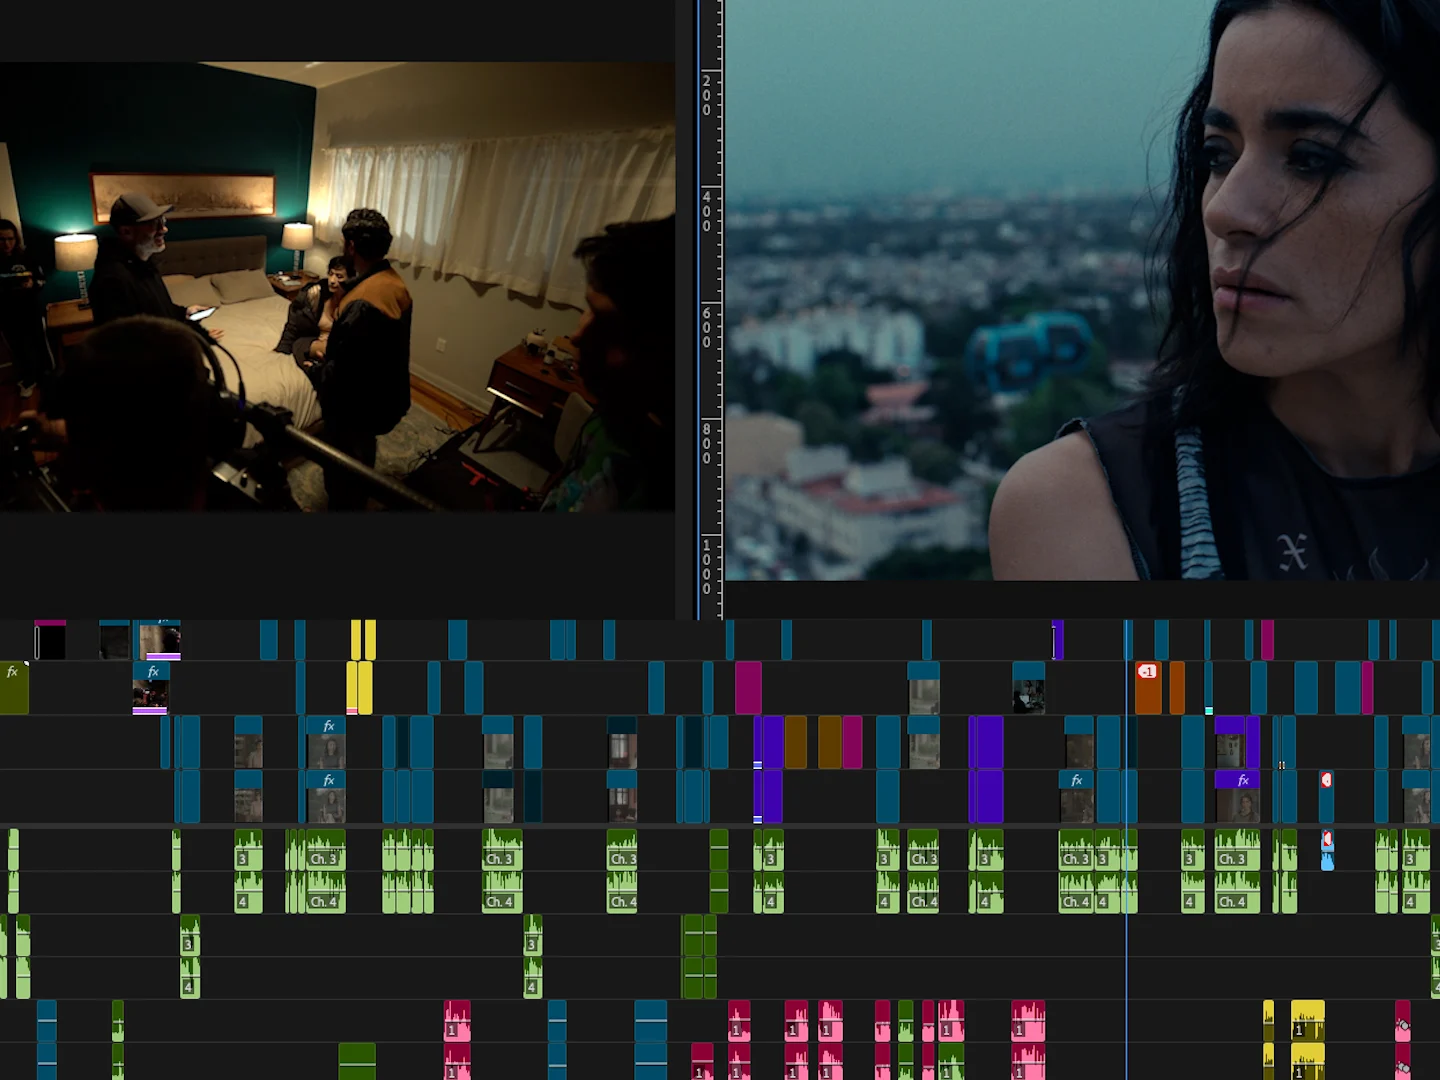
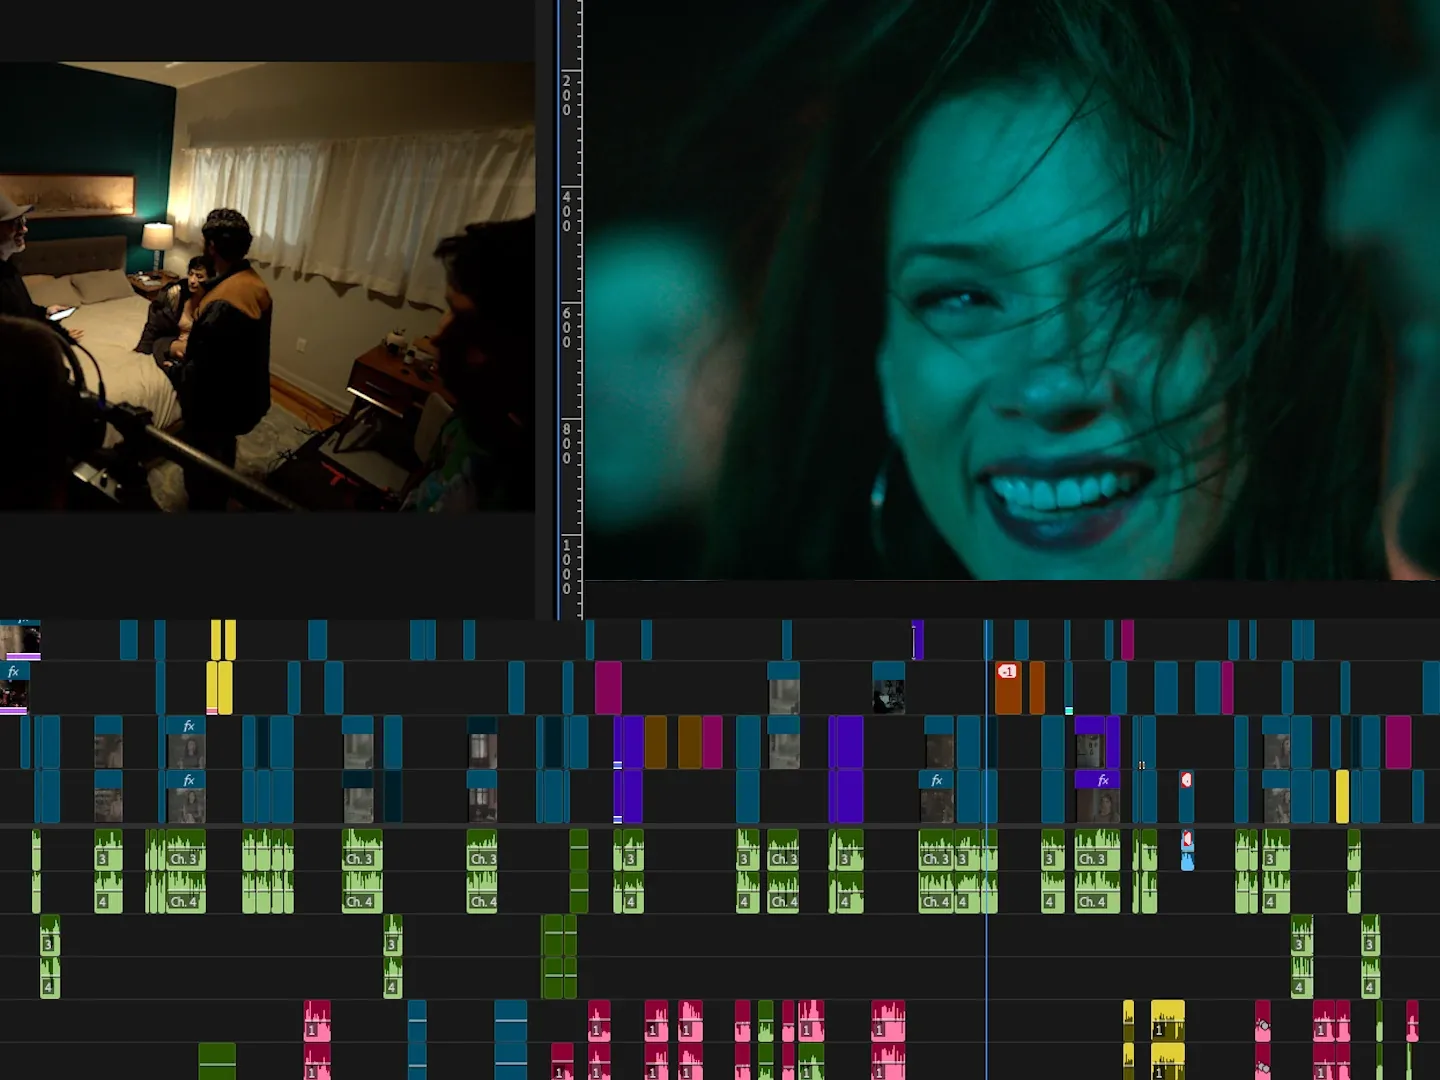
Post-Production image: smiling frame (re-applied); founder photo smaller

diff --git a/services.html b/services.html
@@ -25,7 +25,7 @@
   <meta property="og:image:alt" content="Coco Media logo">
   <meta name="twitter:card" content="summary_large_image">
   <meta name="theme-color" content="#000000">
-  <link rel="stylesheet" href="css/style.css?v=11111653">
+  <link rel="stylesheet" href="css/style.css?v=11121606">
   <script>document.documentElement.classList.add('js');</script>
 </head>
 <body>
@@ -82,7 +82,7 @@
         <article class="svc svc--pink">
           <!-- Oct 28: video removed per Sofi, still image only. Still swapped to the full-res timeline screenshot (Sofi). Oct 27: Mujeres Asesinas S4 BTS edit (from Mary Cruz). Still = resting state; the timeline sweep (5s, silent, B&W)
                fades in once when the row scrolls into view and again on hover. Skipped for reduced motion. -->
-          <figure class="svc-media"><img src="assets/about/svc-post-edit-1000.webp?v=1110" srcset="assets/about/svc-post-edit-1000.webp?v=1110 1000w, assets/about/svc-post-edit.webp?v=1110 1440w" sizes="(max-width: 860px) 100vw, 600px" width="1000" height="750" alt="An edit in progress: behind-the-scenes footage, the finished frame, and the multi-track timeline" loading="lazy"></figure>
+          <figure class="svc-media"><img src="assets/about/svc-post-edit-1000.webp?v=1112" srcset="assets/about/svc-post-edit-1000.webp?v=1112 1000w, assets/about/svc-post-edit.webp?v=1112 1440w" sizes="(max-width: 860px) 100vw, 600px" width="1000" height="750" alt="An edit in progress: behind-the-scenes footage, the finished frame, and the multi-track timeline" loading="lazy"></figure>
           <div class="svc-copy">
             <span class="ring-frame ring-frame--pink svc-icon"><img src="assets/icons/icon-video-editing-bold.png" alt=""></span>
             <h2>Post-Production</h2>
@@ -219,6 +219,6 @@
     </div>
   </footer>
 
-  <script src="js/main.js?v=11111653"></script>
+  <script src="js/main.js?v=11121606"></script>
 </body>
 </html>

diff --git a/es/servicios.html b/es/servicios.html
@@ -26,7 +26,7 @@
 <meta property="og:image:alt" content="Logo de Coco Media">
 <meta name="twitter:card" content="summary_large_image">
 <meta name="theme-color" content="#000000">
-<link rel="stylesheet" href="../css/style.css?v=11111653">
+<link rel="stylesheet" href="../css/style.css?v=11121606">
 <script>document.documentElement.classList.add('js');</script>
 </head>
 <body>
@@ -80,7 +80,7 @@
 <article class="svc svc--pink">
 <!-- Oct 28: video removed per Sofi, still image only. Still swapped to the full-res timeline screenshot (Sofi). Oct 27: Mujeres Asesinas S4 BTS edit (from Mary Cruz). Still = resting state; the timeline sweep (5s, silent, B&W)
                fades in once when the row scrolls into view and again on hover. Skipped for reduced motion. -->
-<figure class="svc-media"><img src="../assets/about/svc-post-edit-1000.webp?v=1110" srcset="../assets/about/svc-post-edit-1000.webp?v=1110 1000w, ../assets/about/svc-post-edit.webp?v=1110 1440w" sizes="(max-width: 860px) 100vw, 600px" width="1000" height="750" alt="Una edición en curso: material detrás de cámaras, el cuadro terminado y la línea de tiempo multipista" loading="lazy"></figure>
+<figure class="svc-media"><img src="../assets/about/svc-post-edit-1000.webp?v=1112" srcset="../assets/about/svc-post-edit-1000.webp?v=1112 1000w, ../assets/about/svc-post-edit.webp?v=1112 1440w" sizes="(max-width: 860px) 100vw, 600px" width="1000" height="750" alt="Una edición en curso: material detrás de cámaras, el cuadro terminado y la línea de tiempo multipista" loading="lazy"></figure>
 <div class="svc-copy">
 <span class="ring-frame ring-frame--pink svc-icon"><img src="../assets/icons/icon-video-editing-bold.png" alt=""></span>
 <h2>Posproducción</h2>
@@ -210,6 +210,6 @@
 </div>
 </div>
 </footer>
-<script src="../js/main.js?v=11111653"></script>
+<script src="../js/main.js?v=11121606"></script>
 </body>
 </html>

diff --git a/case-study-mujeres-asesinas-s2.html b/case-study-mujeres-asesinas-s2.html
@@ -23,8 +23,8 @@
   <meta property="og:image:alt" content="Coco Media logo">
   <meta name="twitter:card" content="summary_large_image">
   <meta name="theme-color" content="#000000">
-  <link rel="stylesheet" href="css/style.css?v=11111653">
-  <link rel="stylesheet" href="css/case-study.css?v=11111653">
+  <link rel="stylesheet" href="css/style.css?v=11121606">
+  <link rel="stylesheet" href="css/case-study.css?v=11121606">
   <script>document.documentElement.classList.add('js');</script>
 </head>
 <body>
@@ -205,7 +205,7 @@
     </div>
   </footer>
 
-  <script src="js/main.js?v=11111653"></script>
-  <script src="js/case-study.js?v=11111653"></script>
+  <script src="js/main.js?v=11121606"></script>
+  <script src="js/case-study.js?v=11121606"></script>
 </body>
 </html>

diff --git a/es/proyectos.html b/es/proyectos.html
@@ -29,7 +29,7 @@
 <meta property="og:image:alt" content="Logo de Coco Media">
 <meta name="twitter:card" content="summary_large_image">
 <meta name="theme-color" content="#000000">
-<link rel="stylesheet" href="../css/style.css?v=11111653">
+<link rel="stylesheet" href="../css/style.css?v=11121606">
 <style>
   /* ==========================================================================
      Projects app — scoped under .projects-app so it can't leak into or
@@ -1338,7 +1338,7 @@ checkDeepLink();
 </div>
 </div>
 </footer>
-<script src="../js/main.js?v=11111653"></script>
+<script src="../js/main.js?v=11121606"></script>
 <script>
 // Nov 5: phone layout toggle for the projects grid (remembers the choice on this device)
 (() => {

diff --git a/projects.html b/projects.html
@@ -28,7 +28,7 @@
   <meta property="og:image:alt" content="Coco Media logo">
   <meta name="twitter:card" content="summary_large_image">
   <meta name="theme-color" content="#000000">
-  <link rel="stylesheet" href="css/style.css?v=11111653">
+  <link rel="stylesheet" href="css/style.css?v=11121606">
   <style>
   /* ==========================================================================
      Projects app — scoped under .projects-app so it can't leak into or
@@ -1353,7 +1353,7 @@ checkDeepLink();
     </div>
   </footer>
 
-  <script src="js/main.js?v=11111653"></script>
+  <script src="js/main.js?v=11121606"></script>
 
 <script>
 // Nov 5: phone layout toggle for the projects grid (remembers the choice on this device)

diff --git a/404.html b/404.html
@@ -20,7 +20,7 @@
   <meta property="og:image:alt" content="Coco Media logo">
   <meta name="twitter:card" content="summary_large_image">
   <meta name="theme-color" content="#000000">
-  <link rel="stylesheet" href="css/style.css?v=11111653">
+  <link rel="stylesheet" href="css/style.css?v=11121606">
   <script>document.documentElement.classList.add('js');</script>
 </head>
 <body>
@@ -122,6 +122,6 @@
       </div>
     </div>
   </footer>
-  <script src="js/main.js?v=11111653"></script>
+  <script src="js/main.js?v=11121606"></script>
 </body>
 </html>

diff --git a/accessibility.html b/accessibility.html
@@ -22,7 +22,7 @@
   <meta property="og:image:alt" content="Coco Media logo">
   <meta name="twitter:card" content="summary_large_image">
   <meta name="theme-color" content="#000000">
-  <link rel="stylesheet" href="css/style.css?v=11111653">
+  <link rel="stylesheet" href="css/style.css?v=11121606">
   <script>document.documentElement.classList.add('js');</script>
 </head>
 <body>
@@ -137,6 +137,6 @@
       </div>
     </div>
   </footer>
-  <script src="js/main.js?v=11111653"></script>
+  <script src="js/main.js?v=11121606"></script>
 </body>
 </html>

diff --git a/careers.html b/careers.html
@@ -21,7 +21,7 @@
   <meta property="og:image:alt" content="Coco Media logo">
   <meta name="twitter:card" content="summary_large_image">
   <meta name="theme-color" content="#000000">
-  <link rel="stylesheet" href="css/style.css?v=11111653">
+  <link rel="stylesheet" href="css/style.css?v=11121606">
   <script>document.documentElement.classList.add('js');</script>
 </head>
 <body>
@@ -136,6 +136,6 @@
       </div>
     </div>
   </footer>
-  <script src="js/main.js?v=11111653"></script>
+  <script src="js/main.js?v=11121606"></script>
 </body>
 </html>

diff --git a/privacy.html b/privacy.html
@@ -22,7 +22,7 @@
   <meta property="og:image:alt" content="Coco Media logo">
   <meta name="twitter:card" content="summary_large_image">
   <meta name="theme-color" content="#000000">
-  <link rel="stylesheet" href="css/style.css?v=11111653">
+  <link rel="stylesheet" href="css/style.css?v=11121606">
   <script>document.documentElement.classList.add('js');</script>
 </head>
 <body>
@@ -138,6 +138,6 @@
       </div>
     </div>
   </footer>
-  <script src="js/main.js?v=11111653"></script>
+  <script src="js/main.js?v=11121606"></script>
 </body>
 </html>

diff --git a/terms.html b/terms.html
@@ -22,7 +22,7 @@
   <meta property="og:image:alt" content="Coco Media logo">
   <meta name="twitter:card" content="summary_large_image">
   <meta name="theme-color" content="#000000">
-  <link rel="stylesheet" href="css/style.css?v=11111653">
+  <link rel="stylesheet" href="css/style.css?v=11121606">
   <script>document.documentElement.classList.add('js');</script>
 </head>
 <body>
@@ -134,6 +134,6 @@
       </div>
     </div>
   </footer>
-  <script src="js/main.js?v=11111653"></script>
+  <script src="js/main.js?v=11121606"></script>
 </body>
 </html>

diff --git a/about.html b/about.html
@@ -25,7 +25,7 @@
   <meta property="og:image:alt" content="Coco Media logo">
   <meta name="twitter:card" content="summary_large_image">
   <meta name="theme-color" content="#000000">
-  <link rel="stylesheet" href="css/style.css?v=11111653">
+  <link rel="stylesheet" href="css/style.css?v=11121606">
   <script>document.documentElement.classList.add('js');</script>
 </head>
 <body>
@@ -358,6 +358,6 @@
     </div>
   </footer>
 
-  <script src="js/main.js?v=11111653"></script>
+  <script src="js/main.js?v=11121606"></script>
 </body>
 </html>

diff --git a/es/nosotros.html b/es/nosotros.html
@@ -26,7 +26,7 @@
 <meta property="og:image:alt" content="Logo de Coco Media">
 <meta name="twitter:card" content="summary_large_image">
 <meta name="theme-color" content="#000000">
-<link rel="stylesheet" href="../css/style.css?v=11111653">
+<link rel="stylesheet" href="../css/style.css?v=11121606">
 <script>document.documentElement.classList.add('js');</script>
 </head>
 <body>
@@ -346,6 +346,6 @@
 </div>
 </div>
 </footer>
-<script src="../js/main.js?v=11111653"></script>
+<script src="../js/main.js?v=11121606"></script>
 </body>
 </html>
